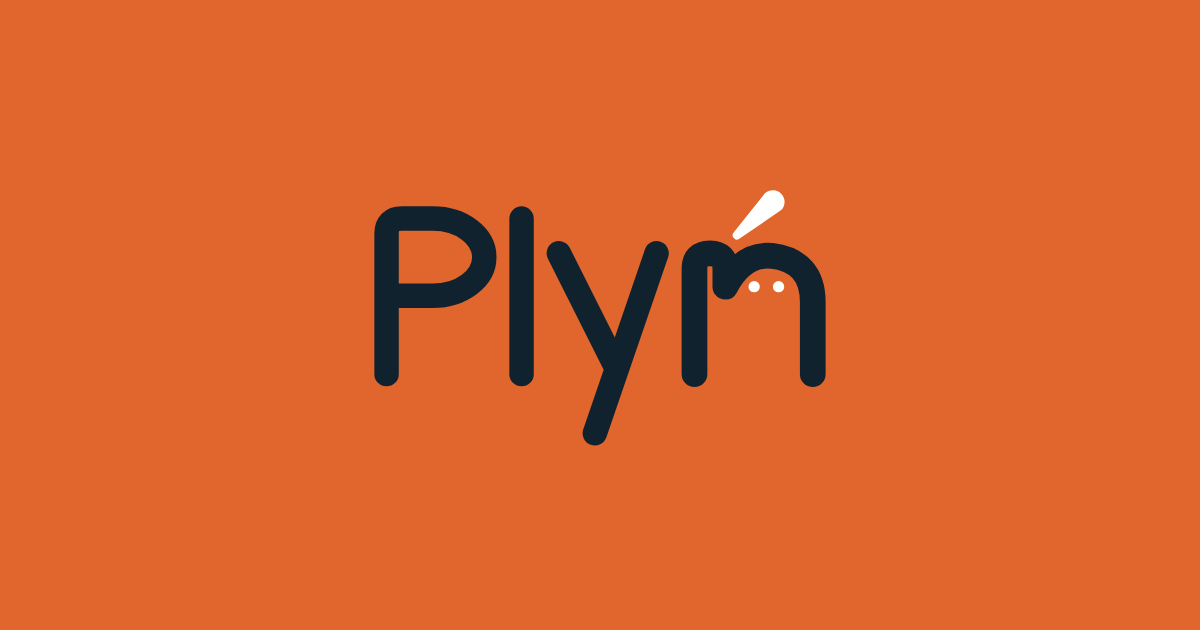
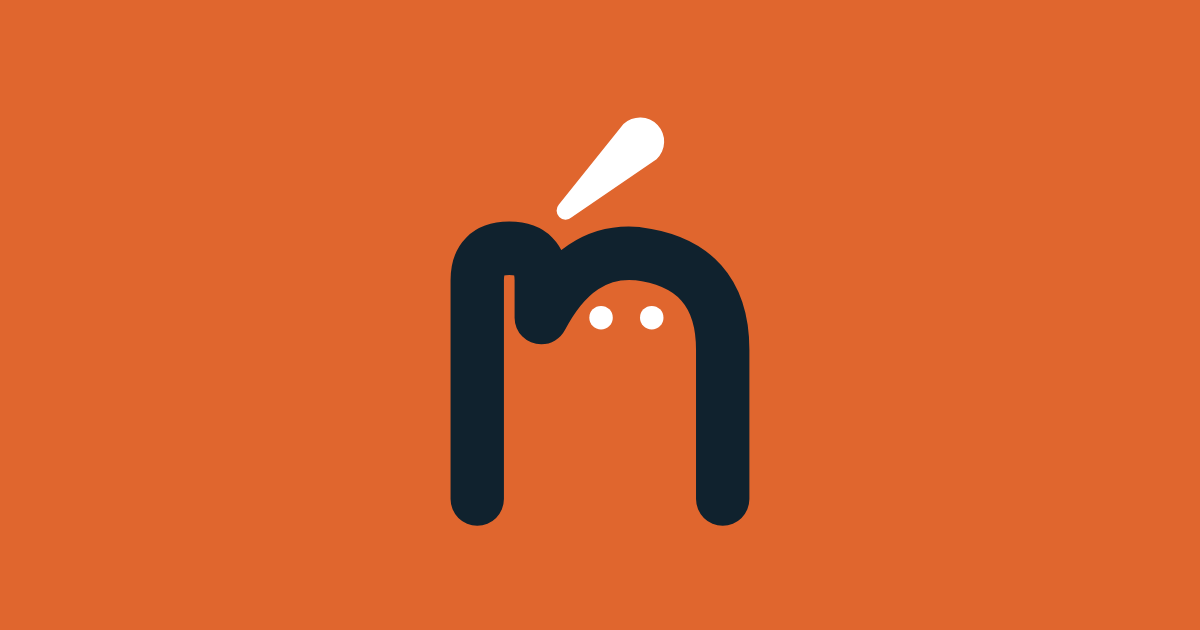
Landing: og.png shows the mark large in the centre, legible in the small square messengers crop
Agent-Model: Claude Opus 5.5

Changed region(s): [[0.3083, 0.181, 0.7092, 0.8444]]

diff --git a/tools/images.py b/tools/images.py
@@ -1,5 +1,5 @@
-"""Raster images from the brand files in A-Rozum/plyn-brand (assets/): og.png (1200×630, the wordmark in Ink on Orange,
-eyes and tuft white as the brand requires on orange) and apple-touch-icon.png (180×180, plyn-icon-orange.svg).
+"""Raster images from the brand files in A-Rozum/plyn-brand (assets/): og.png (1200×630, the mark large in the centre in Ink on Orange,
+eyes and kreska white as the brand requires on orange – messengers such as WhatsApp crop the middle square and shrink it, where a wordmark blurs) and apple-touch-icon.png (180×180, plyn-icon-orange.svg).
 Run when the brand changes: python tools/images.py --brand <plyn-brand checkout>  (needs Playwright with Chromium)."""
 import argparse, asyncio, re
 from pathlib import Path
@@ -13,12 +13,12 @@ async def shot(svg, w, h, out):
 
 def main():
     ap = argparse.ArgumentParser(); ap.add_argument("--brand", required=True); a = ap.parse_args()
-    word = (Path(a.brand) / "assets/plyn-wordmark.svg").read_text(encoding="utf-8")
+    word = (Path(a.brand) / "assets/plyn-mark.svg").read_text(encoding="utf-8")
     word = word.replace('fill="#E0662E"', 'fill="#FFFFFF"')
     word = re.sub(r'width="\d+" height="\d+"', 'width="1200" height="630" preserveAspectRatio="xMidYMid meet"', word, count=1)
-    # frame the wordmark whatever its viewBox: it takes 39% of the width, centred on 1200×630
+    # frame the mark whatever its viewBox: 72% of the height, centred
     x, y, w, h = (float(v) for v in re.search(r'viewBox="([^"]*)"', word).group(1).split())
-    W = w / 0.39; H = W * 630 / 1200
+    H = h / 0.72; W = H * 1200 / 630
     word = re.sub(r'viewBox="[^"]*"', f'viewBox="{x + w / 2 - W / 2:.2f} {y + h / 2 - H / 2:.2f} {W:.2f} {H:.2f}"', word, count=1)
     icon = (Path(a.brand) / "assets/plyn-icon-orange.svg").read_text(encoding="utf-8")
     icon = re.sub(r'width="\d+" height="\d+"', 'width="180" height="180"', icon, count=1)
